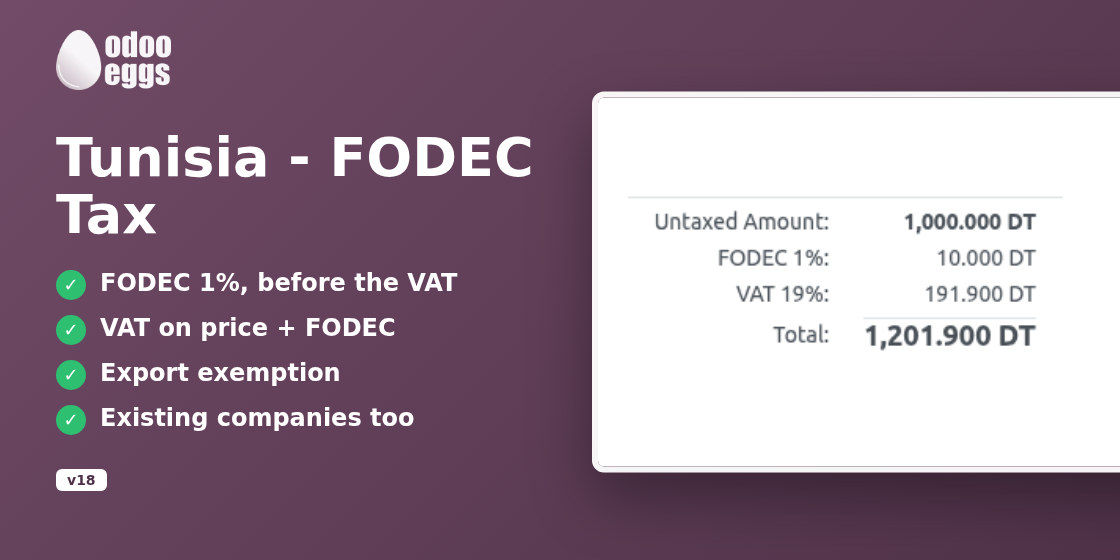
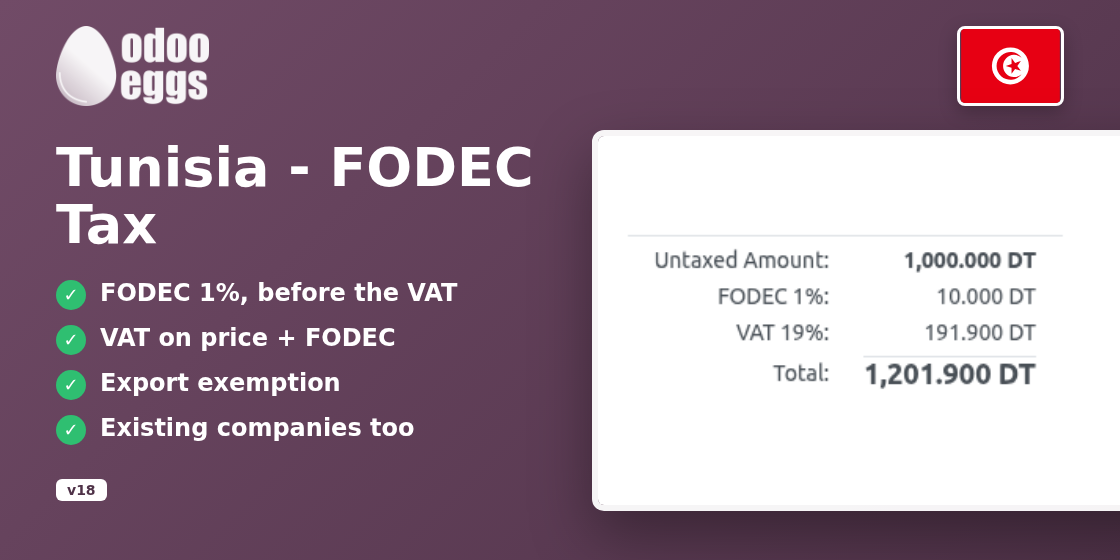
[IMP] l10n_tn_fodec: store cover with the country flag, store page badges readable without backgrounds

diff --git a/l10n_tn_fodec/static/description/index.html b/l10n_tn_fodec/static/description/index.html
@@ -17,9 +17,9 @@
 the price <strong>plus</strong> the FODEC, as the Tunisian VAT code requires. The official
 Tunisian localization of Odoo (<span class="docutils literal">l10n_tn</span>) has no FODEC tax: this module adds it,
 ready to use, for new and existing companies.</p>      <div class="eg-badges" style="margin-top:6px">
-        <span class="eg-badge eg-badge-main" style="display:inline-block; border:1px solid #e6e1e5; background:#714B67; color:#fff; border-radius:999px; padding:3px 12px; margin:0 6px 8px 0; font-size:13px; font-weight:600; border-color:#714B67">Odoo 18</span>
+        <span class="eg-badge eg-badge-main" style="display:inline-block; border:1px solid #e6e1e5; background:#f7f3f6; color:#714B67; border-radius:999px; padding:3px 12px; margin:0 6px 8px 0; font-size:13px; font-weight:600; border-color:#714B67">Odoo 18</span>
         <span class="eg-badge" style="display:inline-block; border:1px solid #e6e1e5; background:#fff; color:#5f6670; border-radius:999px; padding:3px 12px; margin:0 6px 8px 0; font-size:13px; font-weight:600">Requires: Invoicing, l10n_tn</span>
-<span class="eg-badge eg-badge-free" style="display:inline-block; border:1px solid #e6e1e5; background:#1a7f37; color:#fff; border-radius:999px; padding:3px 12px; margin:0 6px 8px 0; font-size:13px; font-weight:600; border-color:#1a7f37">Free</span>      </div>
+<span class="eg-badge eg-badge-free" style="display:inline-block; border:1px solid #e6e1e5; background:#fff; color:#1a7f37; border-radius:999px; padding:3px 12px; margin:0 6px 8px 0; font-size:13px; font-weight:600; border-color:#1a7f37">Free</span>      </div>
     </div>
     <div class="col-lg-7 eg-col" style="padding:10px 12px">
       <img class="eg-hero-img" src="images/screenshot/invoice_fodec.png" alt="Tunisia - FODEC Tax" style="display:block; border-radius:10px; border:1px solid #e6e1e5; box-shadow:0 12px 32px rgba(79, 50, 72, 0.18); max-width:100%; height:auto" height="auto">
@@ -122,21 +122,21 @@ to FODEC.</p>
 <section class="eg-section" style="padding:28px 18px; border-radius:16px; margin-bottom:12px">
   <h2 class="eg-h2" style="color:#4f3248; font-size:24px; font-weight:700; margin:0 0 18px 0; text-align:center" align="center">How it works</h2>
   <div class="eg-step" style="display:flex; align-items:flex-start; max-width:860px; margin:0 auto 14px auto">
-  <span class="eg-num" style="flex:0 0 34px; width:34px; height:34px; line-height:34px; text-align:center; border-radius:50%; background:#714B67; color:#fff; font-weight:700; margin-right:14px" width="34" height="34" align="center">1</span>
+  <span class="eg-num" style="flex:0 0 34px; width:34px; height:34px; text-align:center; border-radius:50%; background:#f7f3f6; border:2px solid #714B67; box-sizing:border-box; line-height:30px; color:#714B67; font-weight:700; margin-right:14px" width="34" height="34" align="center">1</span>
   <div class="eg-step-body" style="padding-top:5px"><p style="margin:0 0 4px 0">Create a quotation or an invoice for a product subject to the FODEC.</p></div>
 </div>
 <div class="eg-step" style="display:flex; align-items:flex-start; max-width:860px; margin:0 auto 14px auto">
-  <span class="eg-num" style="flex:0 0 34px; width:34px; height:34px; line-height:34px; text-align:center; border-radius:50%; background:#714B67; color:#fff; font-weight:700; margin-right:14px" width="34" height="34" align="center">2</span>
+  <span class="eg-num" style="flex:0 0 34px; width:34px; height:34px; text-align:center; border-radius:50%; background:#f7f3f6; border:2px solid #714B67; box-sizing:border-box; line-height:30px; color:#714B67; font-weight:700; margin-right:14px" width="34" height="34" align="center">2</span>
   <div class="eg-step-body" style="padding-top:5px"><p style="margin:0 0 4px 0">The totals show the untaxed amount, then <strong>FODEC 1%</strong>, then the VAT computed on
 the untaxed amount plus the FODEC.</p></div>
 </div>
 <div class="eg-step" style="display:flex; align-items:flex-start; max-width:860px; margin:0 auto 14px auto">
-  <span class="eg-num" style="flex:0 0 34px; width:34px; height:34px; line-height:34px; text-align:center; border-radius:50%; background:#714B67; color:#fff; font-weight:700; margin-right:14px" width="34" height="34" align="center">3</span>
+  <span class="eg-num" style="flex:0 0 34px; width:34px; height:34px; text-align:center; border-radius:50%; background:#f7f3f6; border:2px solid #714B67; box-sizing:border-box; line-height:30px; color:#714B67; font-weight:700; margin-right:14px" width="34" height="34" align="center">3</span>
   <div class="eg-step-body" style="padding-top:5px"><p style="margin:0 0 4px 0">For an export sale, set the <em>Export</em> fiscal position on the customer or on the
 invoice: it removes the FODEC and maps the VAT to 0%.</p></div>
 </div>
 <div class="eg-step" style="display:flex; align-items:flex-start; max-width:860px; margin:0 auto 14px auto">
-  <span class="eg-num" style="flex:0 0 34px; width:34px; height:34px; line-height:34px; text-align:center; border-radius:50%; background:#714B67; color:#fff; font-weight:700; margin-right:14px" width="34" height="34" align="center">4</span>
+  <span class="eg-num" style="flex:0 0 34px; width:34px; height:34px; text-align:center; border-radius:50%; background:#f7f3f6; border:2px solid #714B67; box-sizing:border-box; line-height:30px; color:#714B67; font-weight:700; margin-right:14px" width="34" height="34" align="center">4</span>
   <div class="eg-step-body" style="padding-top:5px"><p style="margin:0 0 4px 0">The FODEC due is posted on account 436780 and reported on the <em>FODEC</em> line of
 the Tunisian tax report.</p></div>
 </div>
@@ -146,19 +146,19 @@ the Tunisian tax report.</p></div>
 <section class="eg-section eg-center" style="padding:28px 18px; border-radius:16px; margin-bottom:12px; text-align:center" align="center">
 <button class="eg-toggle" type="button" data-bs-toggle="collapse" data-bs-target="#eg-configure" aria-expanded="false" aria-controls="eg-configure" style="background:#fff; border:1px solid #e6e1e5; color:#4f3248; font-weight:700; border-radius:999px; padding:8px 22px; margin:0 6px 8px 6px">Configuration ▾</button>
 <div class="collapse" id="eg-configure"><div class="eg-left" style="text-align:left; margin-top:14px" align="left"><div class="eg-step" style="display:flex; align-items:flex-start; max-width:860px; margin:0 auto 14px auto">
-  <span class="eg-num" style="flex:0 0 34px; width:34px; height:34px; line-height:34px; text-align:center; border-radius:50%; background:#714B67; color:#fff; font-weight:700; margin-right:14px" width="34" height="34" align="center">1</span>
+  <span class="eg-num" style="flex:0 0 34px; width:34px; height:34px; text-align:center; border-radius:50%; background:#f7f3f6; border:2px solid #714B67; box-sizing:border-box; line-height:30px; color:#714B67; font-weight:700; margin-right:14px" width="34" height="34" align="center">1</span>
   <div class="eg-step-body" style="padding-top:5px"><p style="margin:0 0 4px 0">Install the module on a database using the Tunisian chart of accounts
 (<span class="docutils literal">l10n_tn</span>). The FODEC taxes are created for every Tunisian company, existing
 or new.</p></div>
 </div>
 <div class="eg-step" style="display:flex; align-items:flex-start; max-width:860px; margin:0 auto 14px auto">
-  <span class="eg-num" style="flex:0 0 34px; width:34px; height:34px; line-height:34px; text-align:center; border-radius:50%; background:#714B67; color:#fff; font-weight:700; margin-right:14px" width="34" height="34" align="center">2</span>
+  <span class="eg-num" style="flex:0 0 34px; width:34px; height:34px; text-align:center; border-radius:50%; background:#f7f3f6; border:2px solid #714B67; box-sizing:border-box; line-height:30px; color:#714B67; font-weight:700; margin-right:14px" width="34" height="34" align="center">2</span>
   <div class="eg-step-body" style="padding-top:5px"><p style="margin:0 0 4px 0">Only the products you <strong>manufacture</strong> and that are listed by decree are subject
 to the FODEC. On each of these products, add <strong>FODEC 1%</strong> next to the VAT in
 <em>Sales Taxes</em>.</p></div>
 </div>
 <div class="eg-step" style="display:flex; align-items:flex-start; max-width:860px; margin:0 auto 14px auto">
-  <span class="eg-num" style="flex:0 0 34px; width:34px; height:34px; line-height:34px; text-align:center; border-radius:50%; background:#714B67; color:#fff; font-weight:700; margin-right:14px" width="34" height="34" align="center">3</span>
+  <span class="eg-num" style="flex:0 0 34px; width:34px; height:34px; text-align:center; border-radius:50%; background:#f7f3f6; border:2px solid #714B67; box-sizing:border-box; line-height:30px; color:#714B67; font-weight:700; margin-right:14px" width="34" height="34" align="center">3</span>
   <div class="eg-step-body" style="padding-top:5px"><p style="margin:0 0 4px 0">On the bills of a supplier who invoices the FODEC, add <strong>FODEC 1% (cost)</strong> next
 to the VAT on the bill lines, or in the <em>Purchase Taxes</em> of the product.</p></div>
 </div>
@@ -174,9 +174,9 @@ to the VAT on the bill lines, or in the <em>Purchase Taxes</em> of the product.<
 <col style="width: 33%">
 </colgroup>
 <thead>
-<tr><th class="head" style="background:#714B67; color:#fff; padding:10px 14px; text-align:left; font-weight:600" align="left"><p style="margin:0">Need</p></th>
-<th class="head" style="background:#714B67; color:#fff; padding:10px 14px; text-align:left; font-weight:600" align="left"><p style="margin:0">Standard Odoo 18 (l10n_tn)</p></th>
-<th class="head" style="background:#714B67; color:#fff; padding:10px 14px; text-align:left; font-weight:600" align="left"><p style="margin:0">With this module</p></th>
+<tr><th class="head" style="background:#f7f3f6; color:#4f3248; border-bottom:2px solid #714B67; padding:10px 14px; text-align:left; font-weight:700" align="left"><p style="margin:0">Need</p></th>
+<th class="head" style="background:#f7f3f6; color:#4f3248; border-bottom:2px solid #714B67; padding:10px 14px; text-align:left; font-weight:700" align="left"><p style="margin:0">Standard Odoo 18 (l10n_tn)</p></th>
+<th class="head" style="background:#f7f3f6; color:#4f3248; border-bottom:2px solid #714B67; padding:10px 14px; text-align:left; font-weight:700" align="left"><p style="margin:0">With this module</p></th>
 </tr>
 </thead>
 <tbody>
@@ -300,11 +300,11 @@ checked again at each Tunisian finance law.</p></li>
 </div>
 </section>
 
-<section class="eg-cta" style="background:linear-gradient(135deg, #714B67 0%, #4f3248 100%); color:#fff; text-align:center; border-radius:16px; padding:32px 20px; margin:20px 0" align="center">
-  <h2 class="eg-cta-title" style="color:#fff; font-size:24px; font-weight:700; margin:0 0 8px 0">Questions before buying?</h2>
-  <p class="eg-cta-text" style="color:#f1e9ef; margin:0 0 0.75em 0">Ask us anything about Tunisia - FODEC Tax: setup, your use case, your Odoo version.</p>
-  <a class="eg-button" href="mailto:support@eggsforge.com?subject=Tunisia%20-%20FODEC%20Tax" style="display:inline-block; background:#E8590C; color:#fff; font-weight:700; padding:10px 26px; border-radius:999px; text-decoration:none">Contact support</a>
-  <p class="eg-cta-mail" style="color:#e3d6df; font-size:13px; margin:0 0 0.75em 0">support@eggsforge.com</p>
+<section class="eg-cta" style="background:#f7f3f6; border:2px solid #714B67; color:#1f2328; text-align:center; border-radius:16px; padding:32px 20px; margin:20px 0" align="center">
+  <h2 class="eg-cta-title" style="color:#4f3248; font-size:24px; font-weight:700; margin:0 0 8px 0">Questions before buying?</h2>
+  <p class="eg-cta-text" style="color:#5f6670; margin:0 0 0.75em 0">Ask us anything about Tunisia - FODEC Tax: setup, your use case, your Odoo version.</p>
+  <a class="eg-button" href="mailto:support@eggsforge.com?subject=Tunisia%20-%20FODEC%20Tax" style="display:inline-block; background:#fff; border:2px solid #E8590C; color:#E8590C; font-weight:700; padding:10px 26px; border-radius:999px; text-decoration:none">Contact support</a>
+  <p class="eg-cta-mail" style="color:#5f6670; font-size:13px; margin:0 0 0.75em 0">support@eggsforge.com</p>
 </section>
 
 <section class="eg-section eg-small" style="padding:28px 18px; border-radius:16px; margin-bottom:12px; font-size:13.5px; color:#5f6670">
